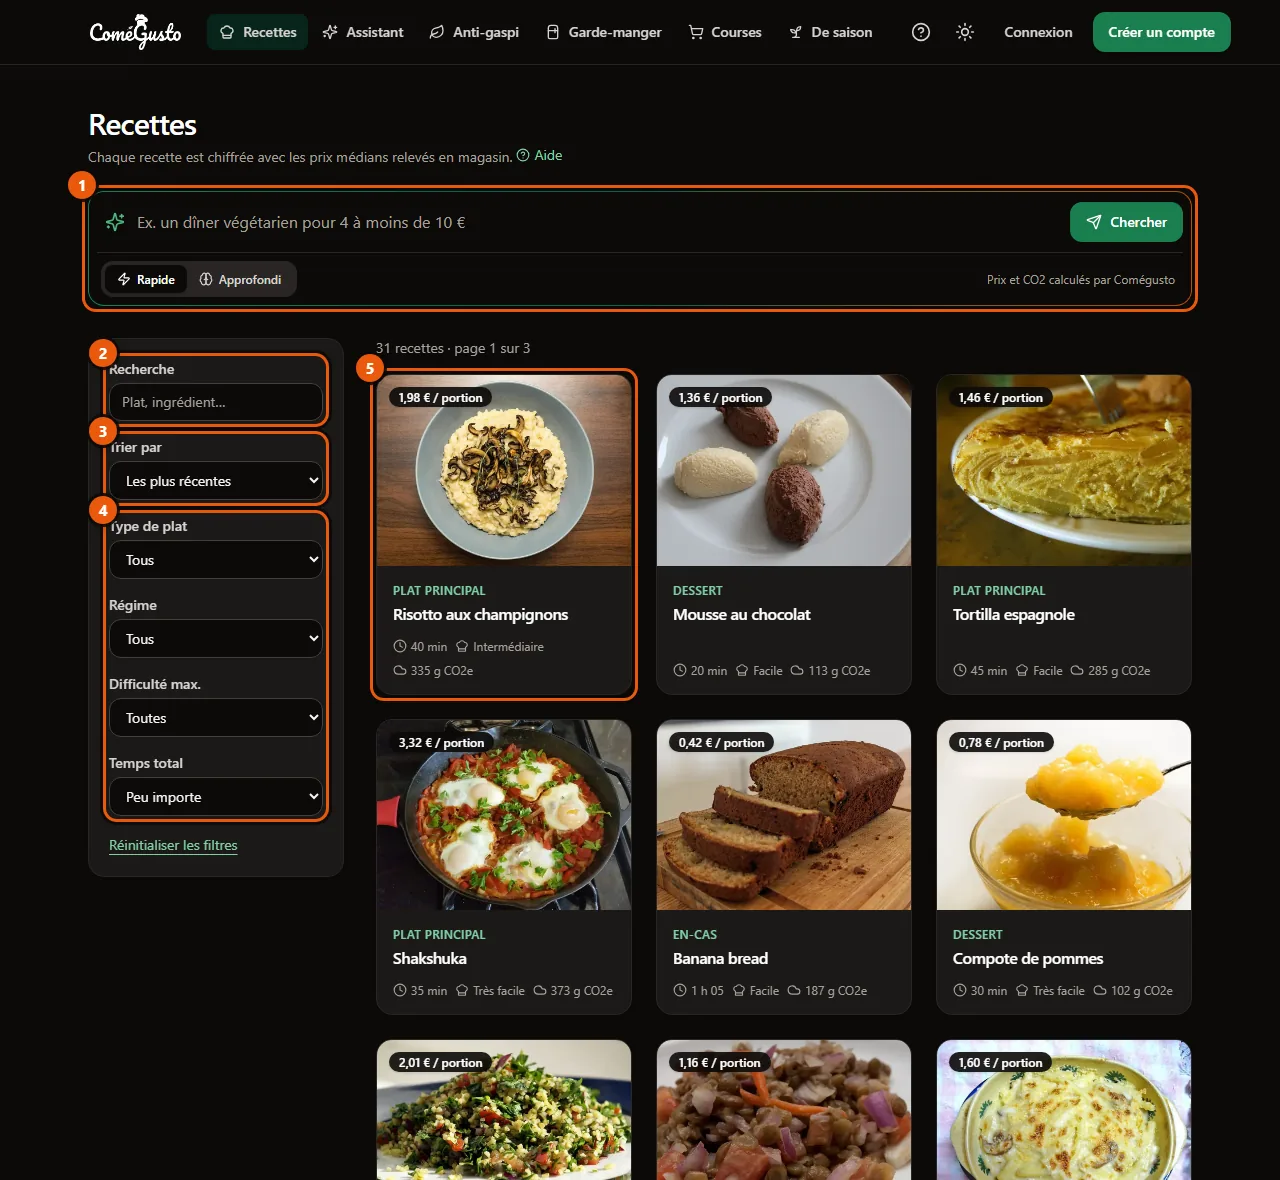
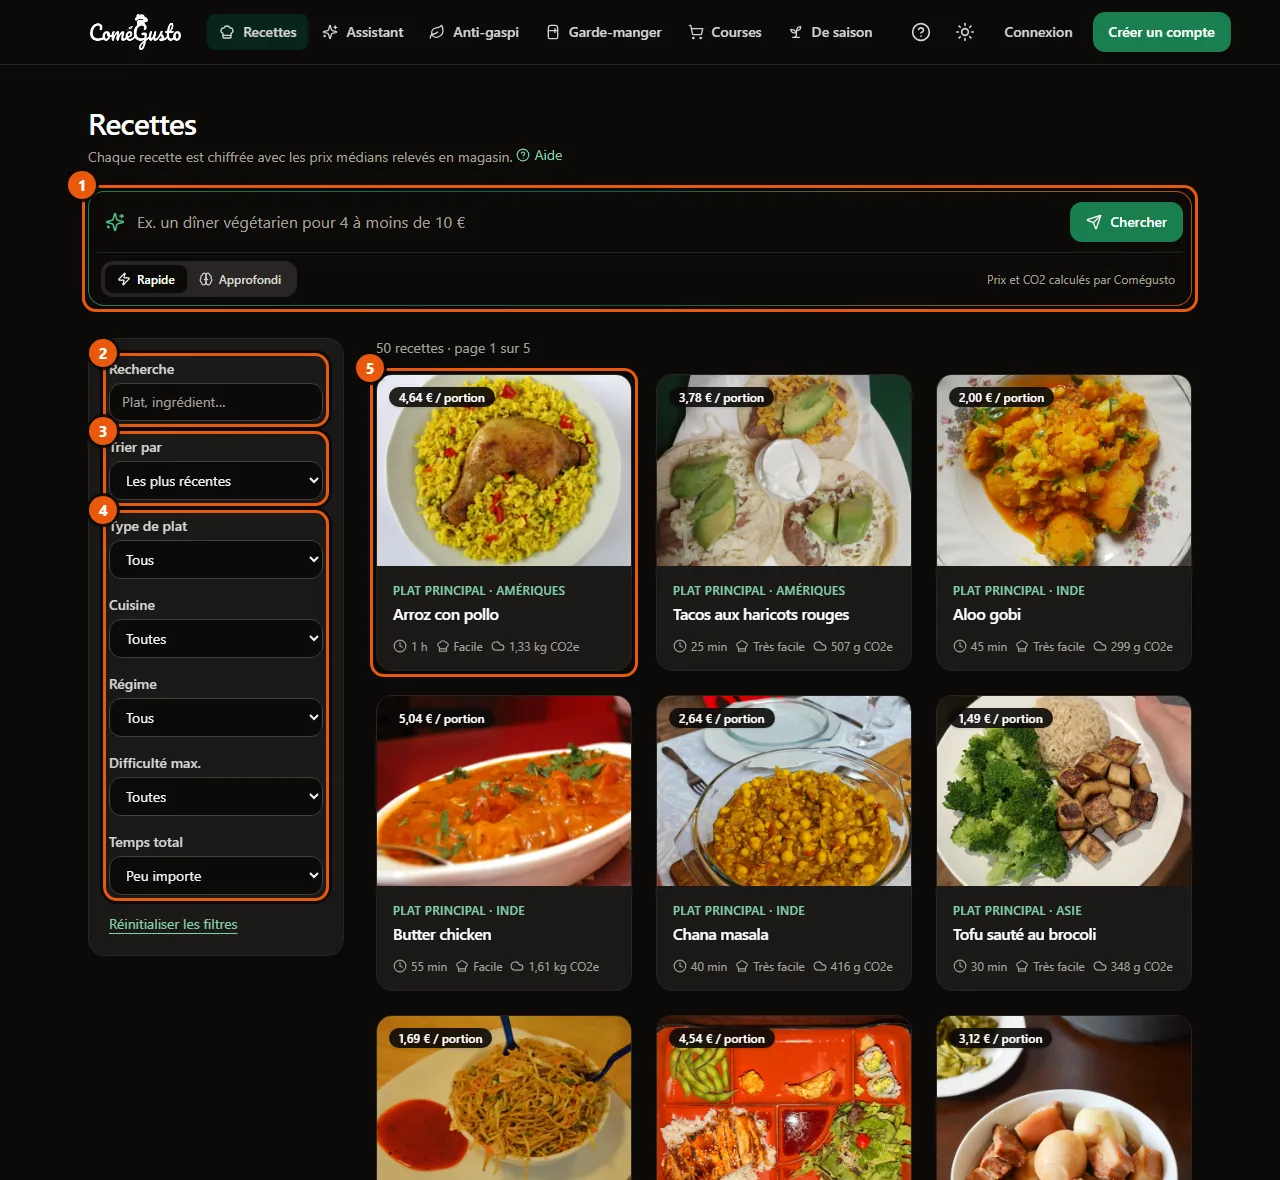
Document world cuisines in the guide and docs (closes #32)

Changed region(s): [[0.0625, 0.3051, 0.9375, 1.0], [0.0938, 0.5797, 0.1562, 0.6102], [0.0938, 0.4881, 0.125, 0.5186]]

diff --git a/templates/guide/chapters/recettes.html b/templates/guide/chapters/recettes.html
@@ -12,6 +12,9 @@
   <li><strong>Les plus rapides</strong>, préparation et cuisson comprises ;</li>
   <li><strong>Faible empreinte carbone</strong>, selon les données de l'ADEME.</li>
 </ul>
+<h3 id="cuisines">Cuisines du monde</h3>
+<p>Le filtre <strong>Cuisine</strong> affiche les plats d'une région : Afrique (mafé, poulet yassa, riz jollof…), Asie (pad thaï, porc au caramel…), Inde (chana masala, butter chicken…), Maghreb et Moyen-Orient (tajine, harira, houmous…), Amériques, Europe ou France. Les vignettes <strong>Cuisines du monde</strong> de l'accueil y mènent directement, et l'assistant comprend aussi « un plat africain » ou « quelque chose de thaï ».</p>
+<p class="guide-note">Le filtre <strong>Végétarien</strong> inclut les recettes véganes, et <strong>Pescétarien</strong> les recettes végétariennes.</p>
 <p>Les filtres se combinent entre eux et avec la recherche. Les résultats sont paginés par 12, et l'adresse de la page garde vos critères : vous pouvez l'enregistrer ou la partager. <strong>Réinitialiser les filtres</strong> revient à la liste complète.</p>
 
 <h3 id="sur-mobile">Sur mobile</h3>

diff --git a/apps/guide/content.py b/apps/guide/content.py
@@ -143,7 +143,11 @@ FIGURES = {
                 Callout(
                     ".field:has(#id_sort)", "Tri", "Récentes, moins chères, rapides ou bas carbone."
                 ),
-                Callout("#more-filters", "Filtres", "Type de plat, régime, difficulté et durée."),
+                Callout(
+                    "#more-filters",
+                    "Filtres",
+                    "Type de plat, cuisine, régime, difficulté et durée.",
+                ),
                 Callout(
                     "#results article >> nth=0",
                     "Fiche recette",

diff --git a/docs/src/content/docs/architecture/modele-donnees.md b/docs/src/content/docs/architecture/modele-donnees.md
@@ -28,7 +28,7 @@ erDiagram
 | Modèle | Rôle | Champs notables |
 | --- | --- | --- |
 | `Ingredient` | Ingrédient générique, relié aux données ouvertes | `off_category` (taxonomie Open Food Facts), `impactco2_slug` (ADEME), `ciqual_code` et valeurs pour 100 g (`kcal_100g`, `proteins_100g`, `fat_100g`, `carbs_100g`), `price_unit` (kg, l ou unité), `unit_weight_g` (poids d'une pièce), `aisle` (rayon), `is_staple` (produit de base supposé disponible) |
-| `Recipe` | Recette | métadonnées (type, difficulté, portions, durées, origine), image et crédits (`image_credit`, `image_license`, `image_license_url`, `image_source`), métriques calculées non éditables (`cost_per_serving`, `price_coverage`, `co2_per_serving`, `kcal`, `proteins_g`, `fat_g`, `carbs_g`, `nutrition_coverage`, `metrics_updated_at`), `search_text` |
+| `Recipe` | Recette | métadonnées (type, difficulté, portions, durées, origine en texte libre, `cuisine` parmi sept régions), image et crédits (`image_credit`, `image_license`, `image_license_url`, `image_source`), métriques calculées non éditables (`cost_per_serving`, `price_coverage`, `co2_per_serving`, `kcal`, `proteins_g`, `fat_g`, `carbs_g`, `nutrition_coverage`, `metrics_updated_at`), `search_text` |
 | `RecipeIngredient` | Ligne d'ingrédient | `quantity` (facultative), `unit`, `note`, `position` |
 | `RecipeStep` | Étape | `position`, `text` |
 | `Diet` | Régime (végétarien, sans gluten...) | `name`, `slug` |
@@ -38,7 +38,9 @@ Les unités de recette (`g`, `kg`, `ml`, `cl`, `l`, `piece`, `tbsp`, `tsp`, `pin
 
 ### Index de recherche
 
-`Recipe.search_text` contient le titre, le résumé, l'origine, le type de plat, les ingrédients et les régimes, en minuscules et sans accents (`apps.core.text.normalize`). Il est mis à jour :
+Les filtres par régime passent par `Recipe.objects.for_diet(slug)`, qui inclut les régimes plus stricts : une recette végane convient aux végétariens, une recette végétarienne aux pescétariens (`STRICTER_DIETS`).
+
+`Recipe.search_text` contient le titre, le résumé, l'origine, le type de plat, la cuisine, les ingrédients et les régimes, en minuscules et sans accents (`apps.core.text.normalize`). Il est mis à jour :
 
 - à chaque `Recipe.save()` ;
 - par les signaux de `apps/recipes/signals.py` quand un `RecipeIngredient` est créé, modifié ou supprimé, ou quand les régimes changent.

diff --git a/README.md b/README.md
@@ -40,7 +40,8 @@ Chaque Français jette en moyenne une trentaine de kilos de nourriture par an, p
 ## Fonctionnalités
 
 **Recettes**
-- 31 recettes de démonstration, économiques et anti-gaspi (pain perdu, hachis parmentier, riz cantonais, banana bread…), illustrées par des photos sous licence libre.
+- 50 recettes de démonstration, économiques et anti-gaspi, de France et du monde entier : mafé, poulet yassa, riz jollof, pad thaï, porc au caramel, chana masala, tajine, houmous, tacos… illustrées par des photos sous licence libre.
+- Filtre par cuisine (France, Europe, Maghreb et Moyen-Orient, Afrique, Asie, Inde, Amériques) et vignettes « Cuisines du monde » sur l'accueil.
 - Recherche instantanée insensible aux accents (titre, ingrédients, régimes), filtres combinables (type de plat, régime, difficulté, temps) et tri par date, prix, durée ou CO2, avec pagination stable et URL partageables.
 - Ajustement des portions, quantités recalculées à la volée.
 - Coût par portion calculé à partir de prix réels, détail par ingrédient.
@@ -144,7 +145,7 @@ Pendant le développement, `npm run dev` recompile les styles à chaque modifica
 
 | Commande | Rôle |
 | --- | --- |
-| `seed_demo [--refresh-images]` | Charge les 83 ingrédients et 31 recettes de démonstration avec leurs photos (idempotent). |
+| `seed_demo [--refresh-images]` | Charge les 102 ingrédients et 50 recettes de démonstration avec leurs photos (idempotent). |
 | `sync_prices [slug ...] [--days N] [--pages N]` | Importe les prix Open Prices puis recalcule les recettes. |
 | `refresh_metrics` | Recalcule coût, empreinte carbone et valeurs nutritionnelles (automatique à chaque enregistrement dans l'administration). |
 | `send_expiry_reminders [--days N]` | Envoie les rappels de péremption. |

diff --git a/docs/src/content/docs/developpement/recettes-ingredients.md b/docs/src/content/docs/developpement/recettes-ingredients.md
@@ -50,6 +50,7 @@ Les données de démonstration sont dans `demo/` :
   "prep": 15,
   "cook": 40,
   "origin": "Normandie, France",
+  "cuisine": "france",
   "diets": ["Pescétarien", "Sans gluten"],
   "featured": true,
   "image": "choucroute-de-poisson.webp",
@@ -69,6 +70,8 @@ Les données de démonstration sont dans `demo/` :
 {"name": "Pavé de saumon", "aisle": "fish", "price_unit": "kg", "unit_weight_g": 125,
  "off": "en:salmon-fillets", "co2": "saumon", "ciqual": "26036"}
 ```
+
+`cuisine` prend l'une des valeurs de `Recipe.Cuisine` : `france`, `europe`, `maghreb`, `africa`, `asia`, `india`, `americas`. Les ingrédients vendus à la pièce (`price_unit` à `unit`) doivent être dosés en pièces dans les recettes.
 
 `off`, `co2`, `ciqual`, `unit_weight_g` et `staple` sont facultatifs. Ajoutez l'aliment correspondant dans `demo/ciqual.json` (`kcal`, `proteins`, `fat`, `carbs` pour 100 g).
 

diff --git a/docs/src/content/docs/demarrer/installation.md b/docs/src/content/docs/demarrer/installation.md
@@ -28,7 +28,7 @@ uv run python manage.py runserver
 ```
 
 - L'application répond sur <http://localhost:8000>, l'administration sur `/admin/` (chemin réglable avec `ADMIN_URL`) et la documentation de l'API sur `/api/docs/`.
-- `seed_demo` charge 83 ingrédients et 31 recettes avec leurs photos. La commande est idempotente.
+- `seed_demo` charge 102 ingrédients et 50 recettes avec leurs photos. La commande est idempotente.
 - `sync_prices` interroge Open Prices pour chaque ingrédient. Elle prend quelques minutes ; `sync_prices tomate oeuf` limite la synchronisation à quelques ingrédients.
 - Les emails sont affichés dans la console (`EMAIL_URL=consolemail://`).
 
